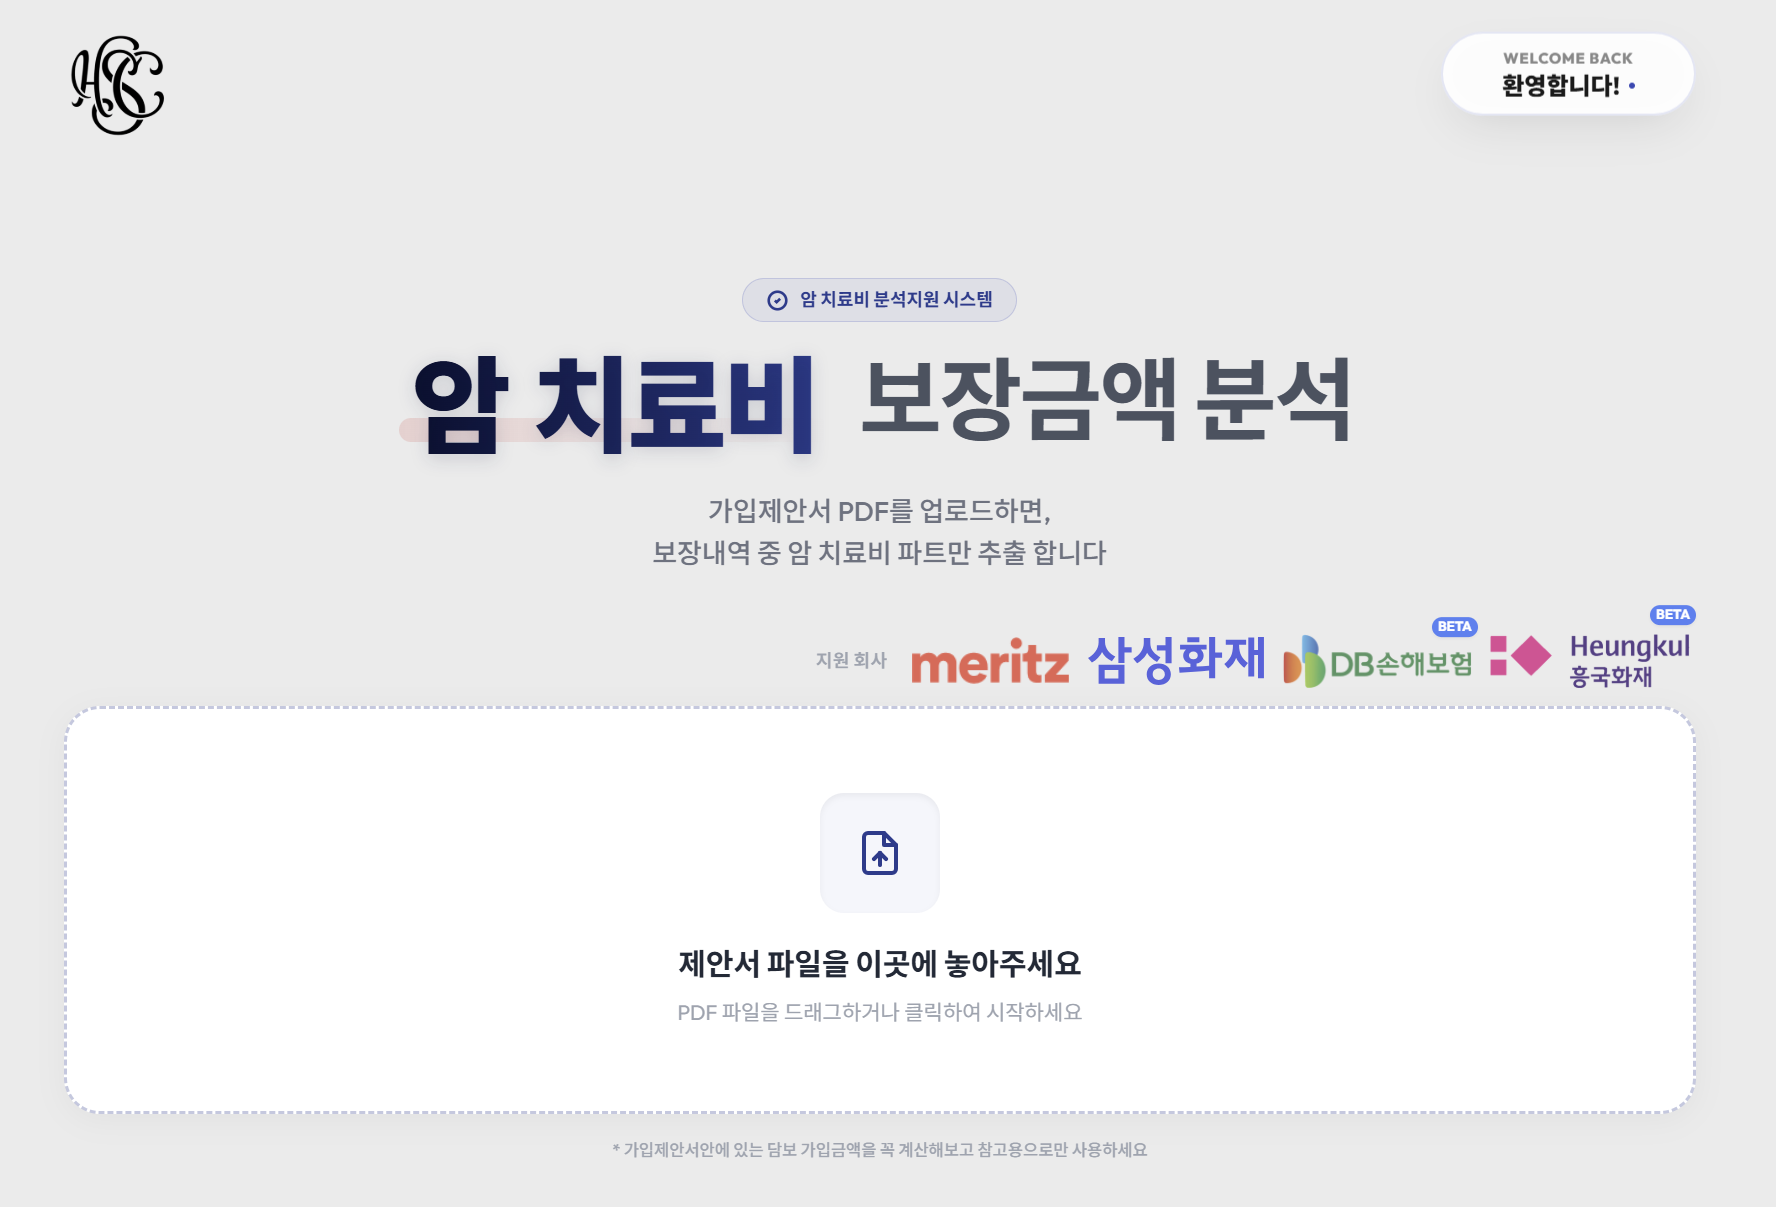
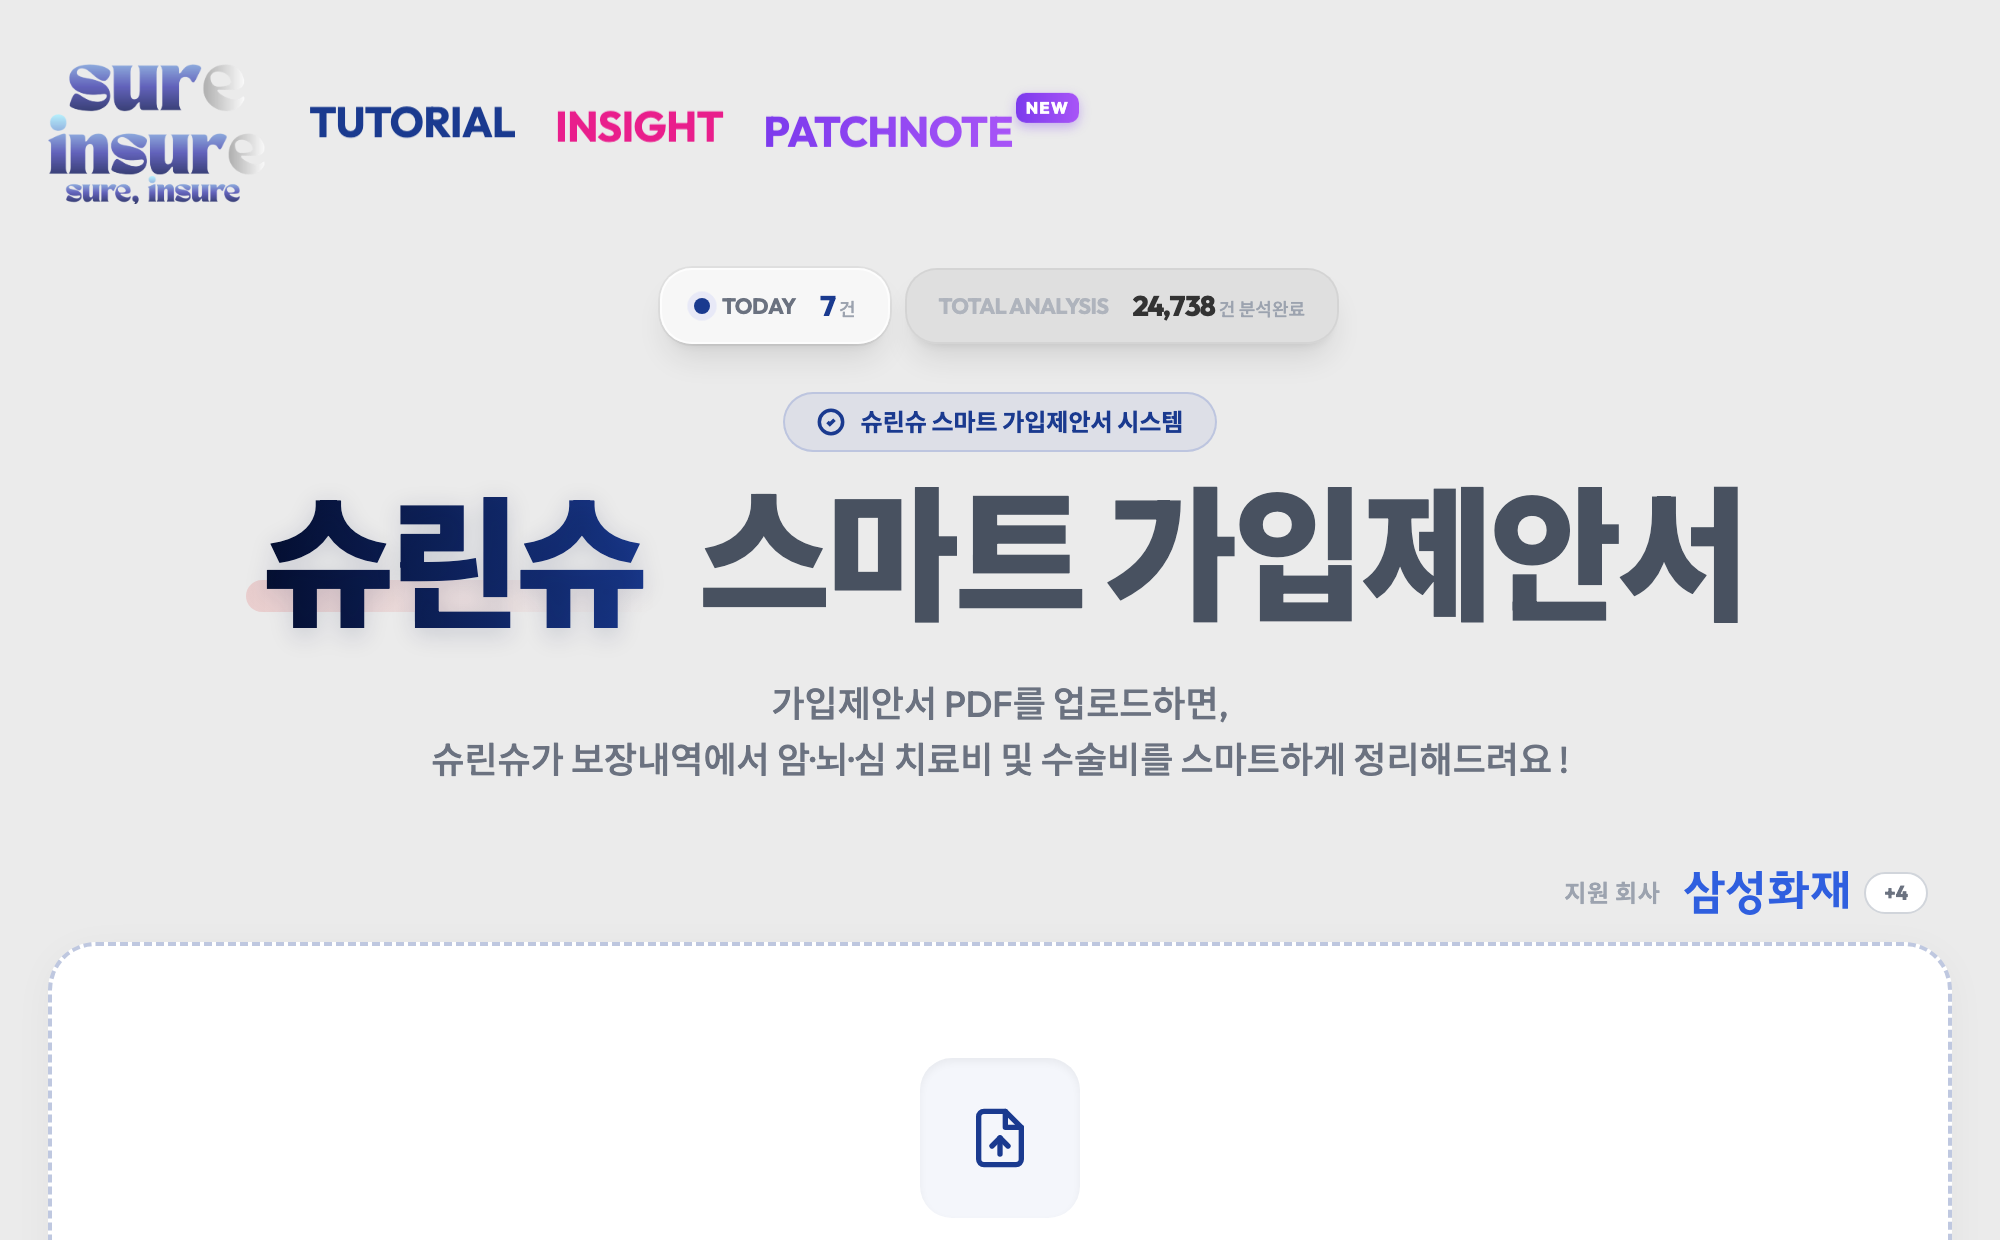
docs(tutorial): 스마트 가입제안서 OPEN 섹션 추가, 수술비·뇌심·전체PDF 안내
기존 튜토리얼(about.html)의 톤을 그대로 유지하면서 새 기능 4개 섹션을 넣었다.

- s-smart : "스마트 가입제안서 OPEN" 배너 + 암/수술비/뇌심 3탭 카드.
            수술비·뇌심은 삼성화재 전용이라는 점을 배너 안에 명시.
- s-surgery : 다빈도 TOP5, 담보 근거 뱃지, 술기별 범위, 제6조② 면책 반영 4가지.
- s-circ    : 동심원 포함관계, 특정순환계 강조, 치료행위 카드, I64 함정 안내.
- s-pdf     : 전체 PDF 저장 — 탭당 A4 한 장, 없는 탭은 자동 제외.

이미지는 헤드리스 크롬으로 실제 화면을 직접 캡처했다(ABOUT/sg_top5, cc_rings,
pdf_btn). 옛 제목이 박혀 있던 landing.png도 새로 찍어 교체.

낡은 문구도 함께 정리: "GA 암보장 분석기" → "슈린슈 스마트 가입제안서",
"암 치료비" 단독 표현 → 담보 전반. 삼성화재 카드에 지원 범위를 덧붙이고
Dynamic Island TOC에 새 섹션 4개를 등록했다.

diff --git a/about.html b/about.html
@@ -4,7 +4,7 @@
   <meta charset="UTF-8">
   <meta name="color-scheme" content="light">
     <meta name="viewport" content="width=device-width, initial-scale=1.0">
-  <title>About — GA 암보장 분석기</title>
+  <title>About — 슈린슈 스마트 가입제안서</title>
   <link rel="preconnect" href="https://fonts.googleapis.com">
   <link rel="preconnect" href="https://fonts.gstatic.com" crossorigin>
   <link href="https://fonts.googleapis.com/css2?family=Outfit:wght@300;400;500;600;700;800;900&family=Noto+Sans+KR:wght@300;400;500;700&display=swap" rel="stylesheet">
@@ -114,6 +114,66 @@
     .ficon { font-size: 1.3rem; margin-bottom: 8px; display: block; }
     .ftitle { font-size: 0.88rem; font-weight: 700; color: #111; margin-bottom: 4px; }
     .fdesc { font-size: 0.78rem; color: #9ca3af; line-height: 1.65; }
+
+    /* ── OPEN 배너 (스마트 가입제안서) ── */
+    .open-banner {
+      background: #111; color: #fff; border-radius: 20px;
+      padding: 40px 36px; margin-top: 28px;
+    }
+    .open-flag {
+      display: inline-flex; align-items: center; gap: 7px;
+      font-size: 0.62rem; font-weight: 800; letter-spacing: 2px; text-transform: uppercase;
+      background: rgba(255,255,255,0.1); border: 1px solid rgba(255,255,255,0.16);
+      color: #fff; border-radius: 99px; padding: 5px 12px; margin-bottom: 18px;
+    }
+    .open-flag .dot { width: 6px; height: 6px; border-radius: 50%; background: #4ade80; }
+    .open-h { font-size: clamp(1.4rem, 3.4vw, 2rem); font-weight: 900; letter-spacing: -1px; line-height: 1.25; margin-bottom: 12px; }
+    .open-p { font-size: 0.87rem; color: rgba(255,255,255,0.5); line-height: 1.85; max-width: 520px; }
+    .open-only {
+      margin-top: 22px; padding-top: 20px; border-top: 1px solid rgba(255,255,255,0.1);
+      display: flex; align-items: center; gap: 10px; flex-wrap: wrap;
+    }
+    .open-only-badge {
+      font-size: 0.72rem; font-weight: 800; color: #111; background: #fff;
+      border-radius: 8px; padding: 5px 11px;
+    }
+    .open-only-txt { font-size: 0.76rem; color: rgba(255,255,255,0.42); line-height: 1.6; }
+
+    /* ── 탭 카드 3종 ── */
+    .tabgrid { display: grid; grid-template-columns: repeat(3,1fr); gap: 12px; margin-top: 28px; }
+    @media(max-width:640px){ .tabgrid { grid-template-columns: 1fr; } }
+    .tabcard { background: #fafafa; border: 1px solid #efefef; border-radius: 16px; padding: 22px 20px; }
+    .tabcard.on { background: #111; border-color: #111; }
+    .tabpill {
+      display: inline-block; font-size: 0.66rem; font-weight: 800; letter-spacing: .5px;
+      border-radius: 99px; padding: 3px 10px; margin-bottom: 11px;
+      background: #ececec; color: #6b7280;
+    }
+    .tabcard.on .tabpill { background: rgba(255,255,255,0.14); color: #fff; }
+    .tabt { font-size: 0.92rem; font-weight: 800; color: #111; margin-bottom: 6px; }
+    .tabcard.on .tabt { color: #fff; }
+    .tabd { font-size: 0.79rem; color: #9ca3af; line-height: 1.7; }
+    .tabcard.on .tabd { color: rgba(255,255,255,0.5); }
+
+    /* ── 인라인 캡처 ── */
+    .shotwrap { margin-top: 28px; }
+    .shot { border-radius: 14px; overflow: hidden; border: 1px solid #ececec; box-shadow: 0 6px 28px rgba(0,0,0,0.06); }
+    .shot img { width: 100%; display: block; }
+    .shotcap { font-size: 0.73rem; color: #b0b0b0; margin-top: 10px; line-height: 1.7; }
+    .shot-btn { max-width: 300px; border: none; box-shadow: none; }
+
+    /* ── 포인트 리스트 ── */
+    .plist { margin-top: 26px; display: grid; gap: 10px; }
+    .pitem {
+      display: grid; grid-template-columns: 22px 1fr; gap: 12px; align-items: start;
+      background: #fafafa; border: 1px solid #efefef; border-radius: 13px; padding: 16px 18px;
+    }
+    .pnum {
+      width: 22px; height: 22px; border-radius: 7px; background: #111; color: #fff;
+      font-size: 0.66rem; font-weight: 800; display: flex; align-items: center; justify-content: center;
+    }
+    .ptxt { font-size: 0.82rem; color: #6b7280; line-height: 1.75; }
+    .ptxt b { color: #111; font-weight: 700; }
 
     /* ── COLLAB BOX ── */
     .collab-box {
@@ -270,7 +330,7 @@
 
 <nav id="about-nav">
   <div class="nav-inner">
-    <a href="index.html" class="nav-logo">GA 암보장 분석기</a>
+    <a href="index.html" class="nav-logo">슈린슈 스마트 가입제안서</a>
     <a href="index.html" class="nav-back">← 분석기로</a>
   </div>
 </nav>
@@ -283,7 +343,7 @@
     <h1 class="hero-title">복잡한 가입제안서,<br>핵심만 빠르게</h1>
     <p class="hero-sub">
       내가 설계한 가입제안서 설명하기 힘드셨죠?<br>
-      PDF 하나면 암 치료비 담보가 자동으로 정리됩니다.
+      PDF 하나면 암 · 수술비 · 뇌·심장 담보가 자동으로 정리됩니다.
     </p>
     <div class="hero-badges">
       <span class="hero-badge">메리츠화재</span>
@@ -305,7 +365,7 @@
       <div class="vcard fu">
         <span class="vicon">⚡</span>
         <p class="vtitle">즉시 분석</p>
-        <p class="vdesc">PDF 업로드 후 수초 내 암 치료비 담보 자동 추출. 5년 최대 보장금액까지 한 화면에.</p>
+        <p class="vdesc">PDF 업로드 후 수초 내 담보 자동 추출. 5년 최대 보장금액까지 한 화면에.</p>
       </div>
       <div class="vcard fu" style="transition-delay:.07s">
         <span class="vicon">🏢</span>
@@ -314,9 +374,147 @@
       </div>
       <div class="vcard fu" style="transition-delay:.14s">
         <span class="vicon">📸</span>
-        <p class="vtitle">이미지 저장</p>
-        <p class="vdesc">분석 결과를 PNG 한 장으로 저장. 카카오톡으로 고객에게 바로 공유하세요.</p>
+        <p class="vtitle">저장 &amp; 공유</p>
+        <p class="vdesc">화면은 PNG 한 장으로, 전체는 A4 PDF로. 카카오톡으로 고객에게 바로 공유하세요.</p>
       </div>
+    </div>
+  </section>
+
+  <!-- SMART OPEN -->
+  <section class="section fu" id="s-smart">
+    <span class="eyebrow">NEW</span>
+    <h2 class="stitle">스마트 가입제안서 OPEN</h2>
+    <p class="slead">
+      암 치료비만 보던 화면에 <strong>수술비</strong>와 <strong>뇌·심장</strong>이 더해졌습니다.<br>
+      같은 제안서 한 장으로 세 가지 보장을 각각 정리해 보여드립니다.
+    </p>
+
+    <div class="open-banner fu">
+      <span class="open-flag"><span class="dot"></span>Now Open</span>
+      <p class="open-h">제안서 한 장, 세 가지 관점</p>
+      <p class="open-p">
+        업로드하면 상단에 토글이 생깁니다. 암 보장 · 수술비 · 뇌·심장을 눌러가며
+        보여주고, 필요한 화면만 저장하거나 세 장을 한 번에 PDF로 내보낼 수 있습니다.
+      </p>
+      <div class="open-only">
+        <span class="open-only-badge">삼성화재 전용</span>
+        <span class="open-only-txt">
+          수술비 · 뇌·심장 분석은 현재 <strong style="color:rgba(255,255,255,.75)">삼성화재 제안서에서만</strong> 동작합니다.
+          다른 보험사는 기존과 같이 암 보장 분석만 제공됩니다.
+        </span>
+      </div>
+    </div>
+
+    <div class="tabgrid">
+      <div class="tabcard fu">
+        <span class="tabpill">기본</span>
+        <p class="tabt">암 보장</p>
+        <p class="tabd">기존 그대로입니다. 9개 카드와 5년간 받을 수 있는 암 치료비를 보여줍니다.</p>
+      </div>
+      <div class="tabcard on fu" style="transition-delay:.07s">
+        <span class="tabpill">NEW</span>
+        <p class="tabt">수술비</p>
+        <p class="tabd">많이 하는 수술 30종이 각각 얼마까지 검토 가능한지 금액으로 나옵니다.</p>
+      </div>
+      <div class="tabcard on fu" style="transition-delay:.14s">
+        <span class="tabpill">NEW</span>
+        <p class="tabt">뇌·심장</p>
+        <p class="tabd">뇌와 심장을 동심원으로 그려, 어느 질환이 얼마를 덮는지 한눈에 보여줍니다.</p>
+      </div>
+    </div>
+  </section>
+
+  <!-- 수술비 -->
+  <section class="section fu" id="s-surgery">
+    <span class="eyebrow">SURGERY</span>
+    <h2 class="stitle">"이 수술 받으면 얼마 나와요?"</h2>
+    <p class="slead">
+      상담에서 가장 많이 듣는 질문입니다. 담보를 하나씩 짚어가며 계산하지 않아도,
+      수술 이름 옆에 검토 가능한 금액이 바로 붙습니다.
+    </p>
+
+    <div class="shotwrap">
+      <div class="shot"><img src="ABOUT/sg_top5.png" alt="수술비 검토 화면 — 다빈도 수술 TOP 5와 수술별 금액 목록"></div>
+      <p class="shotcap">맨 위에 많이 하는 수술 5종을 먼저 띄우고, 아래에 30종 전체를 나열합니다.</p>
+    </div>
+
+    <div class="plist">
+      <div class="pitem fu">
+        <span class="pnum">1</span>
+        <p class="ptxt"><b>다빈도 수술 TOP 5를 먼저</b> — 백내장 · 대장용종 · 치핵 · 담낭절제 · 디스크.
+        고객이 가장 많이 묻는 다섯 가지를 상단에 고정했습니다.</p>
+      </div>
+      <div class="pitem fu" style="transition-delay:.06s">
+        <span class="pnum">2</span>
+        <p class="ptxt"><b>어느 담보에서 나오는지까지</b> — 질병수술비 · 1~5종 · 1~8종 · N대질병이
+        각각 몇 종으로 걸리는지 뱃지로 표시합니다. 금액의 근거를 그 자리에서 설명할 수 있습니다.</p>
+      </div>
+      <div class="pitem fu" style="transition-delay:.12s">
+        <span class="pnum">3</span>
+        <p class="ptxt"><b>술기가 갈리면 범위로</b> — 개복이냐 복강경이냐에 따라 금액이 달라지는 수술은
+        범위로 보여주고, 누르면 술기별 상세가 펼쳐집니다.</p>
+      </div>
+      <div class="pitem fu" style="transition-delay:.18s">
+        <span class="pnum">4</span>
+        <p class="ptxt"><b>면책도 반영</b> — 치핵 · 제왕절개처럼 약관 제6조②에 걸리는 수술은
+        해당 담보를 빼고 계산합니다. 실제보다 크게 보이지 않도록 했습니다.</p>
+      </div>
+    </div>
+  </section>
+
+  <!-- 뇌심장 -->
+  <section class="section fu" id="s-circ">
+    <span class="eyebrow">BRAIN &amp; HEART</span>
+    <h2 class="stitle">뇌와 심장은,<br>넓을수록 좋은 보장입니다</h2>
+    <p class="slead">
+      뇌출혈 ⊂ 뇌졸중 ⊂ 뇌혈관질환. 급성심근경색 ⊂ 허혈성심장질환.
+      말로 설명하면 어려운 포함 관계를 동심원으로 그려, 바깥 고리가 넓을수록 좋다는 걸 눈으로 보여줍니다.
+    </p>
+
+    <div class="shotwrap">
+      <div class="shot"><img src="ABOUT/cc_rings.png" alt="뇌·심장 한눈에 보기 — 뇌와 심장 모양 동심원과 치료 행위별 금액"></div>
+      <p class="shotcap">뇌는 뇌 모양으로, 심장은 하트 모양으로. 각 고리 안에 검토 가능한 최대 금액이 들어갑니다.</p>
+    </div>
+
+    <div class="plist">
+      <div class="pitem fu">
+        <span class="pnum">1</span>
+        <p class="ptxt"><b>가장 바깥 고리 = 최대 금액</b> — 그 질환으로 치료·수술받았을 때
+        검토 가능한 금액(치료비 + 수술비)입니다. 안쪽 고리는 전용 담보가 있을 때만 더해집니다.</p>
+      </div>
+      <div class="pitem fu" style="transition-delay:.06s">
+        <span class="pnum">2</span>
+        <p class="ptxt"><b>특정 순환계 질환 치료비를 강조</b> — 41개 질병코드를 통째로 덮는 가장 넓은 담보입니다.
+        옆의 <strong>?</strong>를 누르면 어떤 코드가 포함되는지 전부 확인할 수 있습니다.</p>
+      </div>
+      <div class="pitem fu" style="transition-delay:.12s">
+        <span class="pnum">3</span>
+        <p class="ptxt"><b>수술 · 혈전용해 · 혈전제거</b> — 치료 행위별로 얼마가 나오는지 카드로 표시하고,
+        수술비 계열(질병수술비 · 1~5종 · N대질병)을 합산해 함께 보여줍니다.</p>
+      </div>
+      <div class="pitem fu" style="transition-delay:.18s">
+        <span class="pnum">4</span>
+        <p class="ptxt"><b>놓치기 쉬운 구멍도 알려드립니다</b> — 예를 들어 뇌졸중 분류표에는 I64(상세불명 뇌졸중)가
+        없습니다. 이런 함정은 화면에 경고로 띄웁니다.</p>
+      </div>
+    </div>
+  </section>
+
+  <!-- 전체 PDF -->
+  <section class="section fu" id="s-pdf">
+    <span class="eyebrow">EXPORT</span>
+    <h2 class="stitle">세 화면을 한 번에, PDF로</h2>
+    <p class="slead">
+      「이미지 저장」 옆에 <strong>전체 PDF 저장</strong>이 생겼습니다.
+      암 보장 · 수술비 · 뇌·심장을 각각 한 장씩 담아 A4 세로 PDF로 내려받습니다.
+    </p>
+
+    <div class="shotwrap">
+      <div class="shot shot-btn"><img src="ABOUT/pdf_btn.png" alt="이미지 저장과 전체 PDF 저장 버튼"></div>
+      <p class="shotcap">
+        담보가 없어 표시되지 않는 탭은 자동으로 빠집니다.
+        수술비 담보가 없는 제안서라면 암 보장과 뇌·심장, 두 장으로 나옵니다.
+      </p>
     </div>
   </section>
 
@@ -337,7 +535,7 @@
       <div class="step rev fu">
         <div>
           <span class="snum">STEP 02</span>
-          <p class="stept">암 치료비 자동 분석</p>
+          <p class="stept">담보 자동 분석</p>
           <p class="stepd">업로드된 PDF에서 암 관련 담보만 자동으로 추출합니다.<br><br>항암방사선 · 항암약물 · 암수술비 등 9개 카드로 분류하고, 5년간 받을 수 있는 최대 보장금액을 한눈에 확인하세요.</p>
         </div>
         <div class="simgs2">
@@ -372,7 +570,7 @@
       <div class="icard fu" style="transition-delay:.07s">
         <div class="iname">삼성화재</div>
         <span class="ibadge blive">✓ 정식 지원</span>
-        <p class="idesc">담보가입현황 기반 정밀 추출</p>
+        <p class="idesc">담보가입현황 기반 정밀 추출 · <strong>수술비/뇌·심장 지원</strong></p>
       </div>
       <div class="icard fu" style="transition-delay:.14s">
         <div class="iname">DB손해보험</div>
@@ -397,7 +595,7 @@
         <div class="fbody">
           <span class="ficon">🖼</span>
           <p class="ftitle">이미지 저장</p>
-          <p class="fdesc">분석된 암 치료비 보장 내역을 이미지 한 장으로 저장합니다. 고객 미팅 전 빠르게 준비하거나 상담 후 증빙 자료로 활용하세요.</p>
+          <p class="fdesc">보고 있는 화면을 이미지 한 장으로 저장합니다. 고객 미팅 전 빠르게 준비하거나 상담 후 증빙 자료로 활용하세요.</p>
         </div>
       </div>
       <div class="fcard fu" style="transition-delay:.1s">
@@ -428,7 +626,7 @@
     <p class="cta-sub">PDF 하나면 충분합니다</p>
     <a href="index.html" class="cta-btn" onclick="if(window!==window.top){window.parent.closeAboutModal();return false;}">가입제안서 업로드하기 →</a>
     <p class="cta-disc">
-      * 이 서비스는 가입제안서를 기반으로 암 치료비를 한눈에 보기 쉽게 재구성한 참고용 도구입니다.<br>
+      * 이 서비스는 가입제안서를 기반으로 담보를 한눈에 보기 쉽게 재구성한 참고용 도구입니다.<br>
       실제 보상금액과 조건은 가입제안서 및 약관을 반드시 확인하세요.
     </p>
   </div>
@@ -436,7 +634,7 @@
 </div><!-- /about-content -->
 
 <footer>
-  GA 암보장 분석기 · 설계 매니저를 위한 도구 · 문의: contact@surinsur.com
+  슈린슈 스마트 가입제안서 · 설계 매니저를 위한 도구 · 문의: contact@surinsur.com
 </footer>
 
 <!-- ════ DYNAMIC ISLAND TOC ════ -->
@@ -447,7 +645,7 @@
     <!-- CLOSED PILL -->
     <div id="di-closed">
       <div class="di-dot"></div>
-      <span id="di-section-label">GA 암보장 분석기</span>
+      <span id="di-section-label">슈린슈 스마트 가입제안서</span>
       <!-- Progress circle (r=9.5, circ≈59.69) -->
       <svg id="di-svg" width="22" height="22" viewBox="0 0 22 22">
         <circle id="di-circ-bg" cx="11" cy="11" r="9.5" fill="none" stroke-width="2.2"/>
@@ -485,6 +683,10 @@
   // ════ Dynamic Island TOC ════
   const SECTIONS = [
     { id: 's-why',      label: '왜 이 도구인가' },
+    { id: 's-smart',    label: '스마트 가입제안서 OPEN' },
+    { id: 's-surgery',  label: '수술비 한눈에 보기' },
+    { id: 's-circ',     label: '뇌·심장 한눈에 보기' },
+    { id: 's-pdf',      label: '전체 PDF 저장' },
     { id: 's-how',      label: '사용 방법 (3 Step)' },
     { id: 's-insurer',  label: '지원 보험사' },
     { id: 's-features', label: '주요 기능' },
@@ -541,7 +743,7 @@
     if (cur !== activeId) {
       activeId = cur;
       const found = SECTIONS.find(s => s.id === cur);
-      labelEl.textContent = found ? found.label : 'GA 암보장 분석기';
+      labelEl.textContent = found ? found.label : '슈린슈 스마트 가입제안서';
       document.querySelectorAll('.di-item').forEach(b => b.classList.toggle('on', b.dataset.sid === cur));
     }
   }
